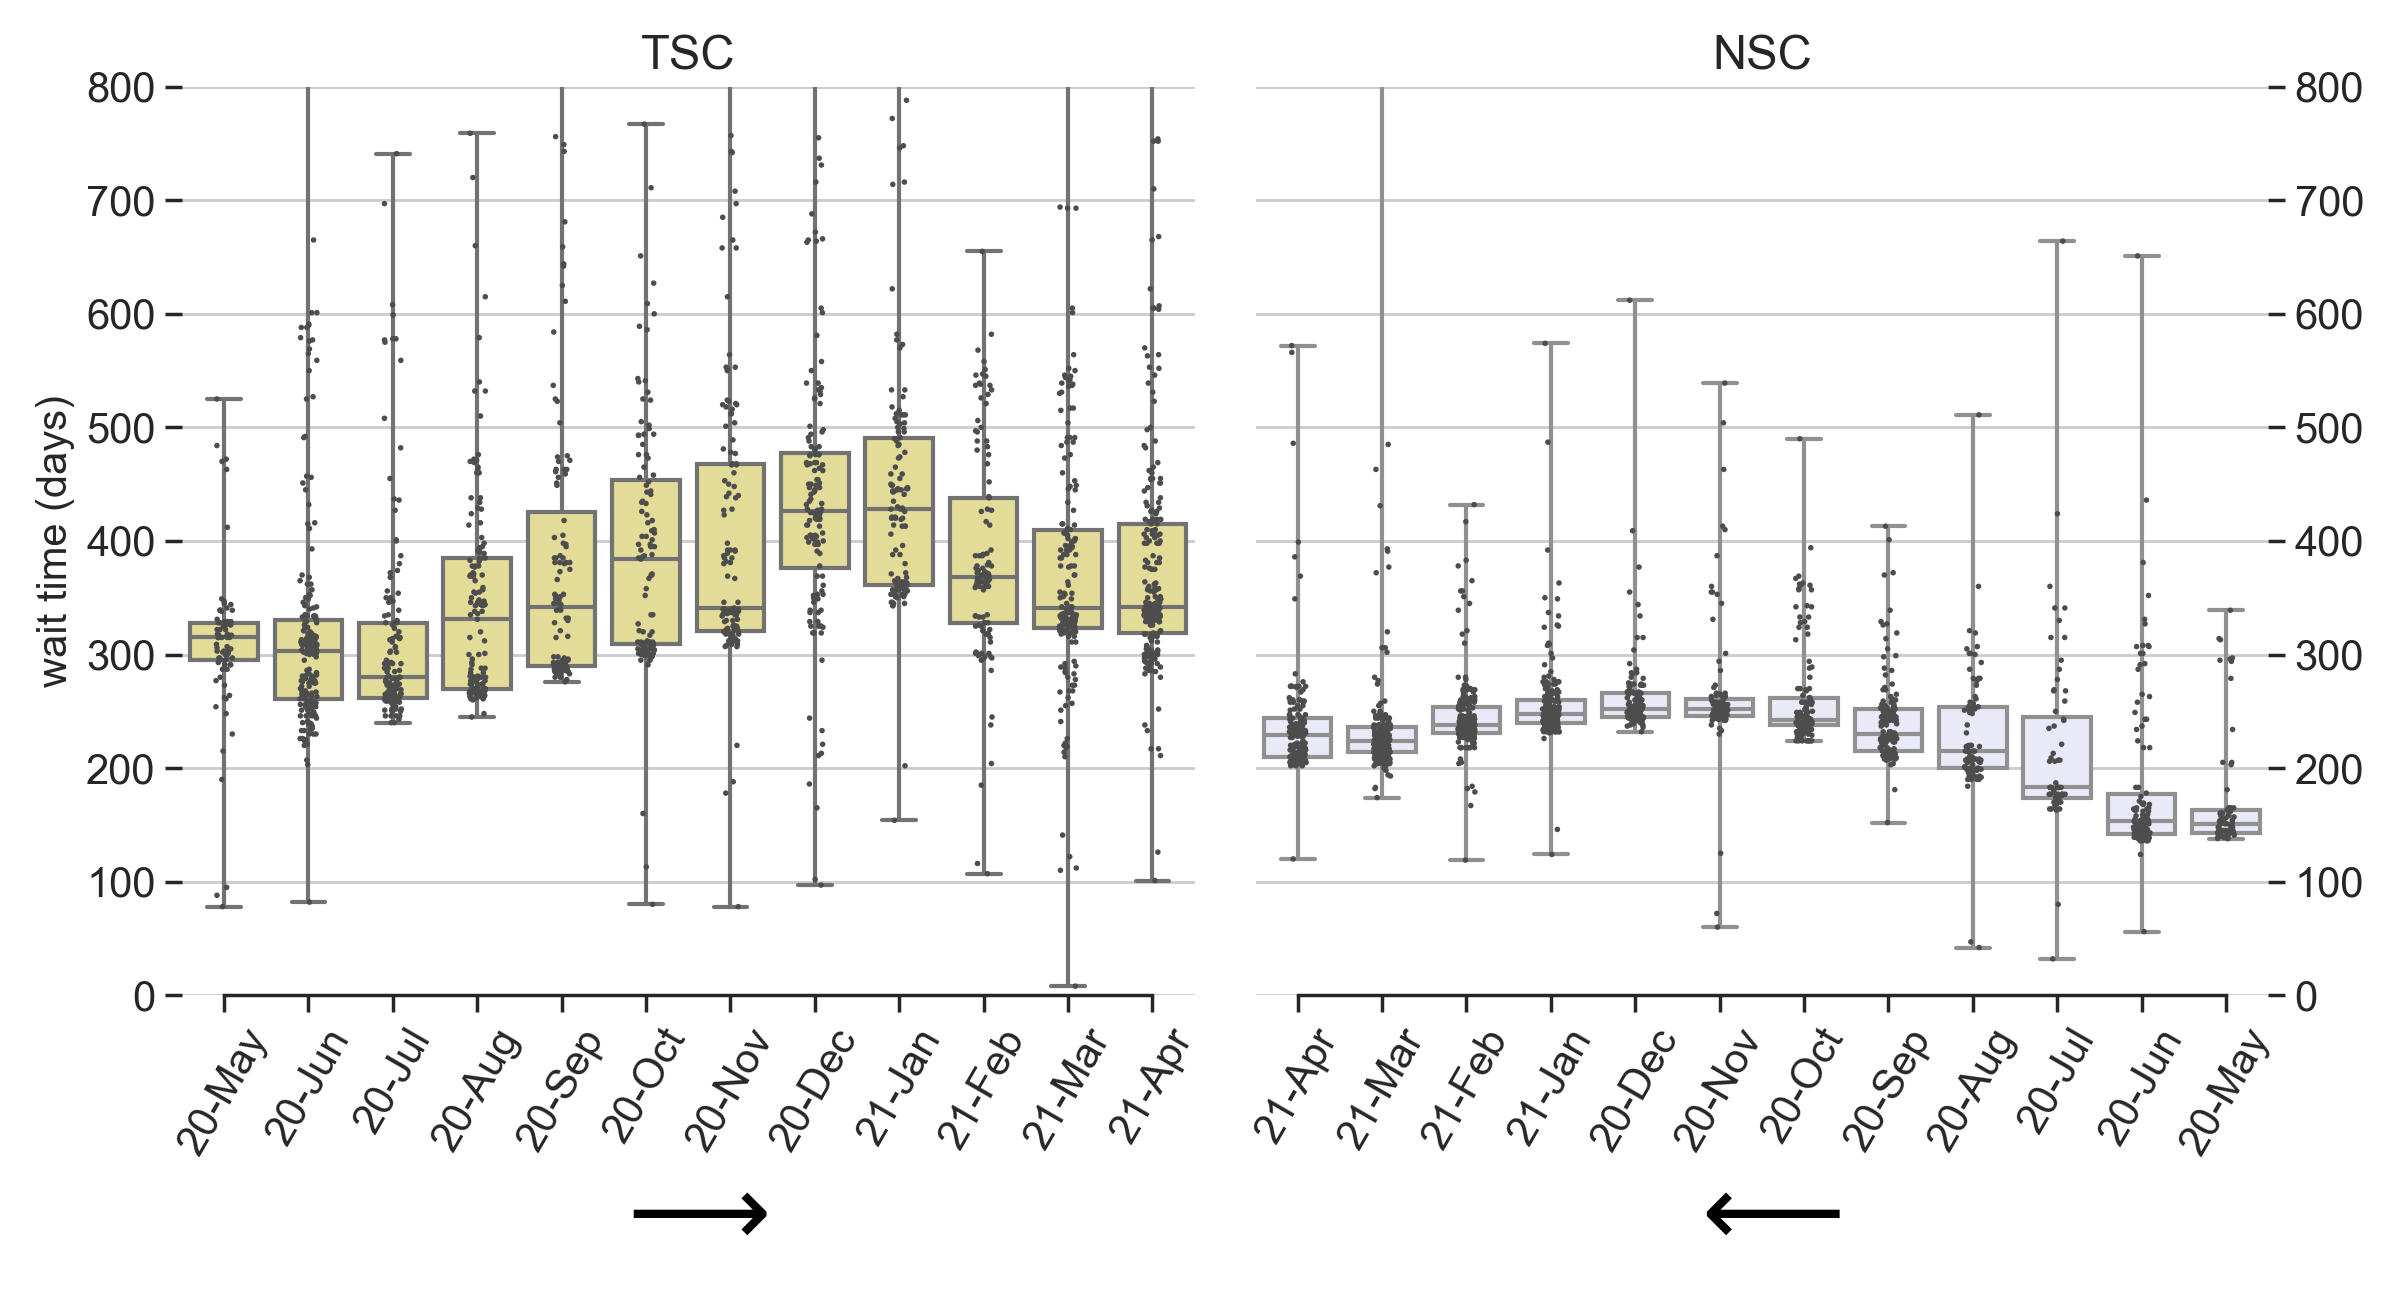
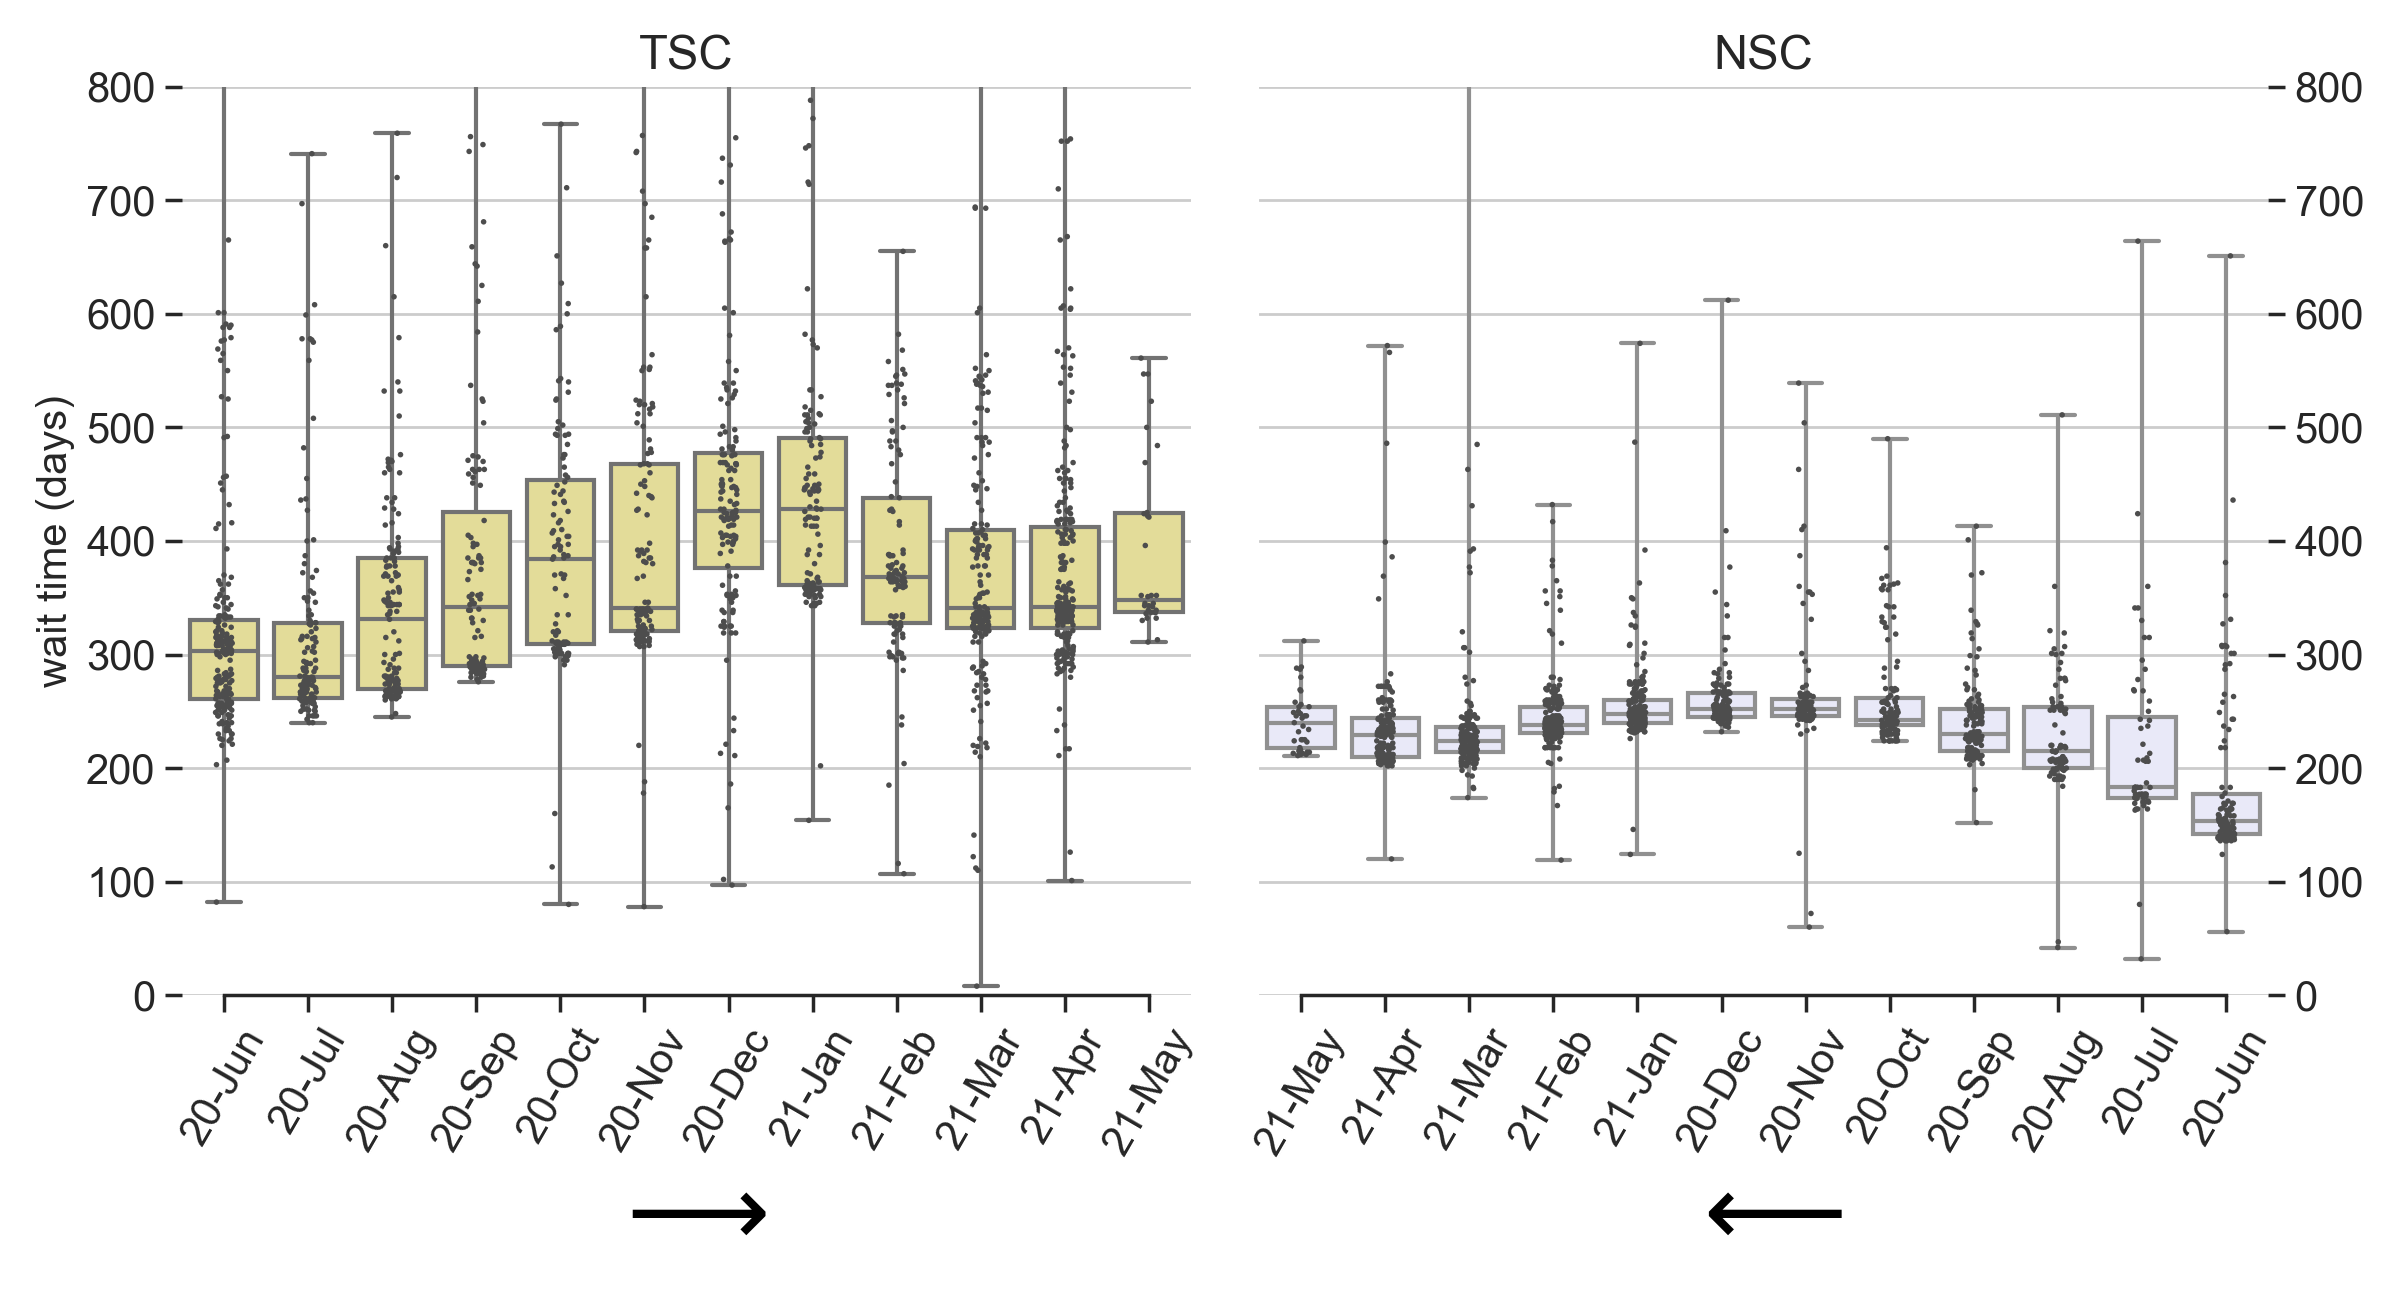
May-21-2021

diff --git a/README.md b/README.md
@@ -1,4 +1,4 @@
-## National Interest Waiver Wait Time, updated May-18-2021 
+## National Interest Waiver Wait Time, updated May-21-2021 
 * If you wish to join our Telegram action group to discuss the delays of processing at TSC, please [fill out this form](https://docs.google.com/forms/d/194Vp6uimucdul6iqtNFB1HSKz_z75RKsQ-cp3z7f8YY/viewform?edit_requested=true).
  
 USCIS Employment-based-2 NIW I-140 wait time before approval (data source: [Victoria Chen](https://www.wegreened.com/eb1_niw_approvals)). 
